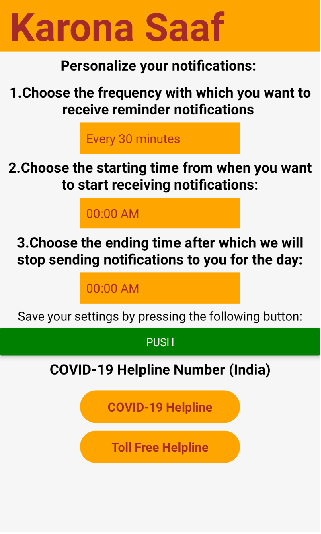
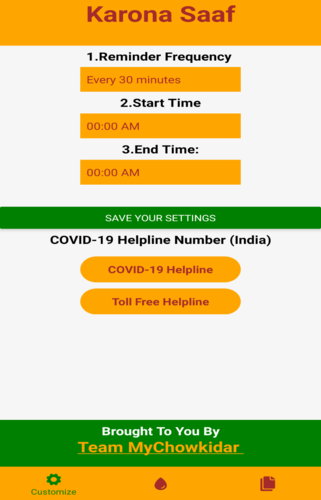
Enhanced UI

diff --git a/src/screens/Hygiene.js b/src/screens/Hygiene.js
@@ -12,19 +12,18 @@ class Hygiene extends React.Component {
     render() {
       return (
         <View style={styles.container1}>
-        <Text style = {styles.mainheading}> Hygiene Practices </Text>
+        <Text style = {styles.mainheading}> Hygiene Videos </Text>
         <ScrollView style={styles.margins}>
-            <Text style = {styles.textStyle1}>{'\n'}Check out some of the videos recommended  by various government organizations here: </Text>
+            <Text style = {styles.textStyle1}>{'\n'}Check out some of the hygiene videos </Text>
             <Text>{"\n"} </Text>
-            <Text style = {styles.textStyle3}>1. Find out the correct way to wash your hands. {"\n"}</Text>
             {Platform.OS === 'android' &&
-            <Button title = "Click here to play this video" color='green'
+            <Button title = "1. Correct way to wash your hands." color='green'
             onPress = {()=>{
               YouTubeStandaloneAndroid.playVideos({
                 apiKey: "AIzaSyDVxQTyQ2MH6YIOrLxX3W9TOPsPMHJOTCU",
-                videoIds:["seA1wbXUQTs"],
+                videoIds:["dK-O0Bv7HK4"],
                 autoplay: true,
-                lightboxMode: true,
+                lightboxMode: false,
                 startIndex: 1,
                 startTime: 0,
               })
@@ -32,65 +31,83 @@ class Hygiene extends React.Component {
           }/>}
 
           {Platform.OS === 'ios' &&
-          <Button title = "Click here to play this video" color='green'
+          <Button title = "1. Correct way to wash your hands." color='green'
           onPress = {()=>{
-            YouTubeStandaloneIOS.playVideo("seA1wbXUQTs")
+            YouTubeStandaloneIOS.playVideo("dK-O0Bv7HK4")
           }
         }/>}
             <Text>{"\n"} </Text>
 
-              <Text style = {styles.textStyle3}>2. Check out how to maintain "Social Distancing"{"\n"} </Text>
 
-              {Platform.OS === 'android' && <Button title = "Click here to play this video" color='green'
+
+              {Platform.OS === 'android' && <Button title = "2. Protect yourself from COVID-19" color='green'
               onPress = {()=>{
                 YouTubeStandaloneAndroid.playVideos({
                   apiKey: "AIzaSyDVxQTyQ2MH6YIOrLxX3W9TOPsPMHJOTCU",
-                  videoIds: ["-NHDnpTmUjo"],
+                  videoIds: ["1APwq1df6Mw"],
                   autoplay: true,
-                  lightboxMode: true,
+                  lightboxMode: false,
                   startIndex: 1,
                   startTime: 0,
                 })
               }
             }/>}
             {Platform.OS === 'ios' &&
-            <Button title = "Click here to play this video" color='green'
+            <Button title = "2. How to maintain Social Distancing" color='green'
             onPress = {()=>{
-              YouTubeStandaloneIOS.playVideo("-NHDnpTmUjo")
+              YouTubeStandaloneIOS.playVideo("1APwq1df6Mw")
             }
           }/>}
               <Text>{"\n"} </Text>
-              <Text style = {styles.textStyle3}>3. See what precautions you can follow to protect yourself and your loved ones </Text>
 
-              {Platform.OS === 'android' && <Button title = "Click here to play this video" color='green'
+              {Platform.OS === 'android' && <Button title = "3. Some precautions to follow" color='green'
               onPress = {()=>{
                 YouTubeStandaloneAndroid.playVideos({
                   apiKey: "AIzaSyDVxQTyQ2MH6YIOrLxX3W9TOPsPMHJOTCU",
                   videoIds: ["Y9VgmhxtJFk"],
                   autoplay: true,
-                  lightboxMode: true,
+                  lightboxMode: false,
                   startIndex: 1,
                   startTime: 0,
                 })
               }
             }/>}
             {Platform.OS === 'ios' &&
-            <Button title = "Click here to play this video" color='green'
+            <Button title = "3. Some precautions to follow" color='green'
             onPress = {()=>{
               YouTubeStandaloneIOS.playVideo("Y9VgmhxtJFk")
             }
           }/>}
           <Text>{"\n"} </Text>
 
-          <Text style = {styles.textStyle3}>4. Find out reliable information about Coronavirus from World Health Organization. {"\n"}</Text>
+          {Platform.OS === 'android' && <Button title = "4. Be a Responsible Citizen" color='green'
+          onPress = {()=>{
+            YouTubeStandaloneAndroid.playVideos({
+              apiKey: "AIzaSyDVxQTyQ2MH6YIOrLxX3W9TOPsPMHJOTCU",
+              videoIds: ["I47QOyX71kg"],
+              autoplay: true,
+              lightboxMode: false,
+              startIndex: 1,
+              startTime: 0,
+            })
+          }
+        }/>}
+        {Platform.OS === 'ios' &&
+        <Button title = "4. Be a Responsible Citizen" color='green'
+        onPress = {()=>{
+          YouTubeStandaloneIOS.playVideo("I47QOyX71kg")
+        }
+        }/>}
+        <Text>{"\n"} </Text>
+
           {Platform.OS === 'android' &&
-          <Button title = "Click here to play this video" color='green'
+          <Button title = "5. Information about COVID-19" color='green'
           onPress = {()=>{
             YouTubeStandaloneAndroid.playVideos({
               apiKey: "AIzaSyDVxQTyQ2MH6YIOrLxX3W9TOPsPMHJOTCU",
               videoIds:["mOV1aBVYKGA"],
               autoplay: true,
-              lightboxMode: true,
+              lightboxMode: false,
               startIndex: 1,
               startTime: 0,
             })
@@ -98,18 +115,38 @@ class Hygiene extends React.Component {
         }/>}
 
         {Platform.OS === 'ios' &&
-        <Button title = "Click here to play this video" color='green'
+        <Button title = "5. Information about COVID-19" color='green'
         onPress = {()=>{
           YouTubeStandaloneIOS.playVideo("mOV1aBVYKGA")
         }
       }/>}
           <Text>{"\n"} </Text>
 
+          {Platform.OS === 'android' &&
+          <Button title = "6. Declare your symptoms" color='green'
+          onPress = {()=>{
+            YouTubeStandaloneAndroid.playVideos({
+              apiKey: "AIzaSyDVxQTyQ2MH6YIOrLxX3W9TOPsPMHJOTCU",
+              videoIds:["TH95P9cYhW0"],
+              autoplay: true,
+              lightboxMode: false,
+              startIndex: 1,
+              startTime: 0,
+            })
+          }
+        }/>}
 
+        {Platform.OS === 'ios' &&
+        <Button title = "6. Declare your symptoms" color='green'
+        onPress = {()=>{
+          YouTubeStandaloneIOS.playVideo("TH95P9cYhW0")
+        }
+      }/>}
+          <Text>{"\n"} </Text>
 
         </ScrollView>
         <Text style = {styles.footerstyle}>Brought To You By
-          <Text style ={{textDecorationLine: 'underline', color: 'orange', fontSize: 25}} onPress={ ()=> Linking.openURL('https://www.mychowkidar.co.in/') }>{'\n'}Team MyChowkidar </Text>
+          <Text style ={{textDecorationLine: 'underline', color: 'orange', fontSize: 23}} onPress={ ()=> Linking.openURL('https://www.mychowkidar.co.in/') }>{'\n'}Team MyChowkidar </Text>
         </Text>
         </View>
       )

diff --git a/src/screens/CartSreen.js b/src/screens/CartSreen.js
@@ -15,20 +15,30 @@ class CartScreen extends React.Component {
             <View style={styles.container1}>
             <Text style = {styles.mainheading}> Karona Saaf </Text>
             <ScrollView style = {styles.margins}>
-            <Text style = {styles.textStyle1}>{'\n'}Some Reliable Resources to fight COVID-19: </Text>
-            <Text style = {styles.hyperlinks} onPress={ ()=> Linking.openURL('https://icmr.nic.in/node/39071') }> 1. Indian Council of Medical Research </Text>
-            <Text style = {styles.hyperlinks} onPress={ ()=> Linking.openURL('https://www.mohfw.gov.in/') }> 2. Ministry of Health and Family Welfare India </Text>
-            <Text style = {styles.hyperlinks} onPress={ ()=> Linking.openURL('https://www.who.int/health-topics/coronavirus') }> 3. World Health Organization </Text>
-            <Text style = {styles.hyperlinks} onPress={ ()=> Linking.openURL('https://www.cdc.gov/') }> 4. Centers for Disease Control and Prevention USA </Text>
-            <Text style = {styles.textStyle1}>{'\n'}{'\n'}To check the statistics click here: </Text>
-            <Text style = {styles.hyperlinks} onPress={ ()=> Linking.openURL('https://www.worldometers.info/coronavirus/') }> 1. Global Statistics </Text>
-            <Text style = {styles.hyperlinks} onPress={ ()=> Linking.openURL('https://www.mohfw.gov.in/') }> 2. India State-Wise Statistics </Text>
-            <Text style = {styles.textStyle1}>{'\n'}{'\n'}{'\n'}Indian States Helpline Numbers: </Text>
-            <Text style = {styles.hyperlinks} onPress={ ()=> Linking.openURL('https://www.mohfw.gov.in/pdf/coronvavirushelplinenumber.pdf') }> Coronavirus Helpline Numbers </Text>
-            <Text style = {styles.textStyle1}> {'\n'}(Click on the above links to open relevant pages){'\n'} </Text>
+            <Text style = {styles.textStyle1}>{'\n'}Trusted Resources </Text>
+            <Text style = {styles.hyperlinks}>1. {'\t'}
+              <Text style = {{textDecorationLine: 'underline'}} onPress={ ()=> Linking.openURL('https://icmr.nic.in/node/39071') }>Indian Council of Medical Research </Text>
+            </Text>
+            <Text style = {styles.hyperlinks}>2. {'\t'}
+              <Text style = {{textDecorationLine: 'underline'}} onPress={ ()=> Linking.openURL('https://www.mohfw.gov.in/') }>Ministry of Health and Family Welfare, India </Text>
+            </Text>
+            <Text style = {styles.hyperlinks}>3. {'\t'}
+              <Text style = {{textDecorationLine: 'underline'}} onPress={ ()=> Linking.openURL('https://www.who.int/health-topics/coronavirus') }>World Health Organization </Text>
+            </Text>
+            <Text style = {styles.hyperlinks}>4. {'\t'}
+              <Text style = {{textDecorationLine: 'underline'}} onPress={ ()=> Linking.openURL('https://www.cdc.gov/') }>Centers for Disease Control and Prevention, USA </Text>
+            </Text>
+            <Text style = {styles.textStyle1}>{'\n'}{'\n'}Latest Statistics </Text>
+            <Text style = {styles.hyperlinks}>1. {'\t'}
+              <Text style = {{textDecorationLine: 'underline'}} onPress={ ()=> Linking.openURL('https://www.mohfw.gov.in/') }>India State-Wise Statistics </Text>
+            </Text>
+            <Text style = {styles.textStyle1}>{'\n'}{'\n'}Helpline Numbers for India </Text>
+            <Text style = {styles.hyperlinks}>1. {'\t'}
+              <Text style = {{textDecorationLine: 'underline'}} onPress={ ()=> Linking.openURL('https://www.mohfw.gov.in/pdf/coronvavirushelplinenumber.pdf') }>View Coronavirus Helpline Numbers </Text>
+            </Text>
             </ScrollView>
             <Text style = {styles.footerstyle}>Brought To You By
-              <Text style = {{textDecorationLine: 'underline', color: 'orange', fontSize: 25}} onPress={ ()=> Linking.openURL('https://www.mychowkidar.co.in/') }>{'\n'}Team MyChowkidar </Text>
+              <Text style = {{textDecorationLine: 'underline', color: 'orange', fontSize: 23}} onPress={ ()=> Linking.openURL('https://www.mychowkidar.co.in/') }>{'\n'}Team MyChowkidar </Text>
             </Text>
             </View>
         );

diff --git a/src/screens/HomeScreen.js b/src/screens/HomeScreen.js
@@ -75,9 +75,7 @@ class HomeScreen extends React.Component {
       <View style={styles.container1}>
       <Text style = {styles.mainheading}> Karona Saaf </Text>
       <ScrollView style = {styles.margins}>
-      <Text style = {styles.textStyle1}>Personalize your notifications: </Text>
-
-      <Text style = {styles.textStyle1}>1.Choose the frequency with which you want to receive reminder notifications </Text>
+      <Text style = {styles.textStyle1}>1.Reminder Frequency </Text>
       <Picker style={styles.pickerStyle}
               selectedValue={this.state.frequency}
               onValueChange={(itemValue, itemPosition) =>
@@ -87,7 +85,7 @@ class HomeScreen extends React.Component {
           <Picker.Item label="Every 2 hours" value="2" />
           <Picker.Item label="Every 3 hours" value="3" />
         </Picker>
-        <Text style={styles.textStyle1}>2.Choose the starting time from when you want to start receiving notifications:</Text>
+        <Text style={styles.textStyle1}>2.Start Time</Text>
 
         <Picker style={styles.pickerStyle}
           selectedValue={this.state.startTime}
@@ -118,7 +116,7 @@ class HomeScreen extends React.Component {
           <Picker.Item label="10:00 PM" value="22" />
           <Picker.Item label="11:00 PM" value="23" />
         </Picker>
-        <Text style={styles.textStyle1}>3.Choose the ending time after which we will stop sending notifications to you for the day:</Text>
+        <Text style={styles.textStyle1}>3.End Time:</Text>
         <Picker style={styles.pickerStyle}
           selectedValue={this.state.endTime}
           onValueChange={(itemValue, itemPosition) =>
@@ -148,10 +146,12 @@ class HomeScreen extends React.Component {
           <Picker.Item label="10:00 PM" value="22" />
           <Picker.Item label="11:00 PM" value="23" />
         </Picker>
-        <Text style={styles.textStyle2}> Save your settings by pressing the following button: </Text>
+        <Text> {'\n'}</Text>
 
-        <Button color='green' onPress={async () => {
 
+
+        <Button color='green'  onPress={async () => {
+          //(Math.abs(this.state.startTime - this.state.endTime) < 8) && (this.state.startTime != this.state.endTime)
           console.log(this.state.startTime)
           console.log(this.state.endTime)
           console.log(this.state.frequency)
@@ -200,12 +200,12 @@ class HomeScreen extends React.Component {
           //     }
           //     );
 
-              Alert.alert("Schedule updated!")
+              Alert.alert("Your schedule has been updated.")
 
-        }} title="Push" />
+        }} title="Save your settings" />
 
-        
-       
+
+
       <Text style = {styles.textStyle1}>COVID-19 Helpline Number (India)</Text>
       <TouchableOpacity style={styles.button} onPress={()=>{this.dialCall(+911123978046)}}>
           <Text style = {{color: 'brown', fontSize: 16, fontWeight: 'bold'}}> COVID-19 Helpline </Text>
@@ -215,7 +215,7 @@ class HomeScreen extends React.Component {
       </TouchableOpacity>
       </ScrollView>
       <Text style = {styles.footerstyle}>Brought To You By
-        <Text style ={{textDecorationLine: 'underline', color: 'orange', fontSize: 25}} onPress={ ()=> Linking.openURL('https://www.mychowkidar.co.in/') }>{'\n'}Team MyChowkidar </Text>
+        <Text style ={{textDecorationLine: 'underline', color: 'orange', fontSize: 23}} onPress={ ()=> Linking.openURL('https://www.mychowkidar.co.in/') }>{'\n'}Team MyChowkidar </Text>
       </Text>
       </View>
     );

diff --git a/src/screens/Tutorial.js b/src/screens/Tutorial.js
@@ -7,9 +7,16 @@ import { createUser } from '../service/createUser';
 
 const slides = [
   {
+    key: 'thanks',
+    title: 'THANK YOU FOR DOWNLOADING',
+    text: 'The next three screens will guide you through a tutorial of the app.',
+    image: require('../../assets/thanks.jpg'),
+    backgroundColor: 'orange',
+  },
+  {
     key: 'notifications',
     title: '1. PERSONALIZE YOUR NOTIFICATIONS',
-    text: 'Choose a frequency and the starting and ending times according to your convenience. We will send you reminder notifications to wash your hands, and practise other hygiene practices based on your choices.',
+    text: 'Choose a frequency, the start and end times according to your convenience. We will send you reminder notifications to practise hygiene practices.',
     image: require('../../assets/1.png'),
   },
   {
@@ -31,7 +38,7 @@ const styles = StyleSheet.create({
     flex: 1,
     alignItems: 'center',
     justifyContent: 'space-around',
-    backgroundColor: 'green',
+    backgroundColor: 'green'
   },
   image: {
     width: 50,
@@ -44,11 +51,11 @@ const styles = StyleSheet.create({
     textAlign: 'justify',
     paddingHorizontal: 10,
     fontWeight: 'bold',
-    fontSize: 15,
+    fontSize: 20,
     marginBottom: "10%",
   },
   title: {
-    fontSize: 25,
+    fontSize: 28,
     color: 'yellow',
     backgroundColor: 'transparent',
     textAlign: 'center',
@@ -57,6 +64,7 @@ const styles = StyleSheet.create({
     textDecorationLine: 'underline',
   },
 });
+
 
 class Tutorial extends React.Component {
   state = {
@@ -92,7 +100,7 @@ class Tutorial extends React.Component {
     if (this.state.showRealApp) {
       return <TabNavigator />;
     } else {
-      return <AppIntroSlider renderItem={this._renderItem} slides={slides} onDone={this._onDone}/>;
+      return <AppIntroSlider renderItem={this._renderItem} slides={slides} showSkipButton={true} onSkip={this._onDone} onDone={this._onDone}/>;
     }
   }
 }

diff --git a/src/config/styles.js b/src/config/styles.js
@@ -28,7 +28,7 @@ export const styles = StyleSheet.create({
       fontWeight: 'bold',
     },
     mainheading: {
-      textAlign: 'left',
+      textAlign: 'center',
       fontSize: 35,
       backgroundColor: 'orange',
       color: 'brown',
@@ -71,11 +71,11 @@ export const styles = StyleSheet.create({
         borderRadius: 50
       },
       hyperlinks:{
-        textAlign: 'center',
+        textAlign: 'left',
         justifyContent: 'center',
         fontSize: 18,
-        textDecorationLine: 'underline',
-        marginTop: 5
+        marginTop: 5,
+        marginLeft: '3%',
       },
       pickerStyle:{
         height: 40,
@@ -87,12 +87,12 @@ export const styles = StyleSheet.create({
       },
       footerstyle:{
         width: '100%',
-        height: '12%',
+        height: '10%',
         backgroundColor: 'green',
         position: 'absolute',
         textAlign: 'center',
         bottom: 0,
-        fontSize: 20,
+        fontSize: 18,
         color: 'white',
         fontWeight: 'bold',
       }

diff --git a/src/navigators/TabNavigator.js b/src/navigators/TabNavigator.js
@@ -28,7 +28,7 @@ const TabNavigator = createMaterialBottomTabNavigator(
         Image: {
             screen: Hygiene,
             navigationOptions: {
-                tabBarLabel: 'Hygiene',
+                tabBarLabel: 'Hygiene Videos',
                 tabBarIcon: ({ tintColor }) => (
                     <View>
                         <Icon style={[{ color: tintColor }]} size={25} name={'ios-water'} />
@@ -45,7 +45,7 @@ const TabNavigator = createMaterialBottomTabNavigator(
                 tabBarLabel: 'Resources',
                 tabBarIcon: ({ tintColor }) => (
                     <View>
-                        <Icon style={[{ color: tintColor }]} size={25} name={'ios-cart'} />
+                        <Icon style={[{ color: tintColor }]} size={25} name={'ios-copy'} />
                     </View>),
             }
         },
